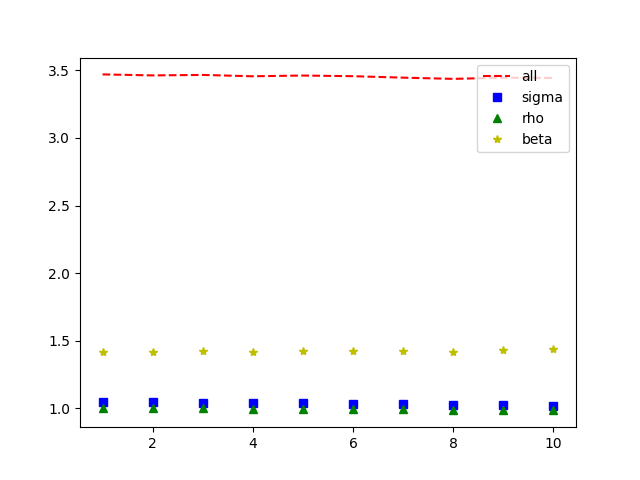
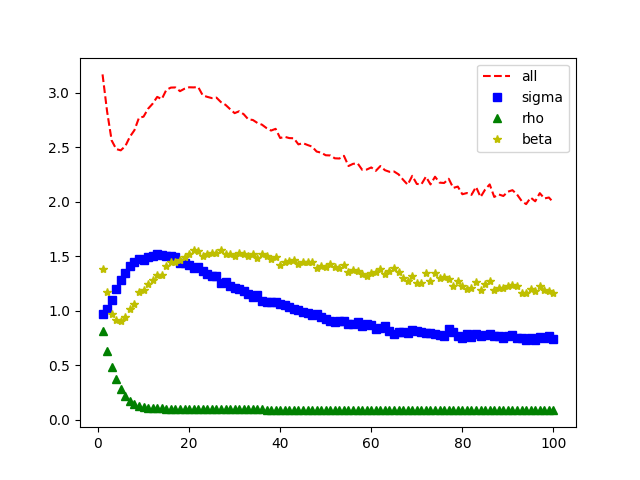
para[1/2,1,1/2]

diff --git a/lorenz_nn.py b/lorenz_nn.py
@@ -10,7 +10,7 @@ from torch.autograd import Variable
 my_path = '/home/peiguo/Lorenz_MLP/training_fig'
 my_results_path_rela = '/home/peiguo/Lorenz_MLP/results/rela_error' 
 my_results_path_abso = '/home/peiguo/Lorenz_MLP/results/abso_error' 
-total_samples = 60
+total_samples = 5000
 
 def dataset(total_samples):
     def f(state,t):
@@ -109,7 +109,7 @@ loss_fn = MSRELoss().cuda()
 learning_rate = 1e-5
 #learning_rate = 1e-3
 
-EPOCH = 10
+EPOCH = 100
 
 # define the optimizer
 optimizer = torch.optim.SGD(model.parameters(), lr=learning_rate)
